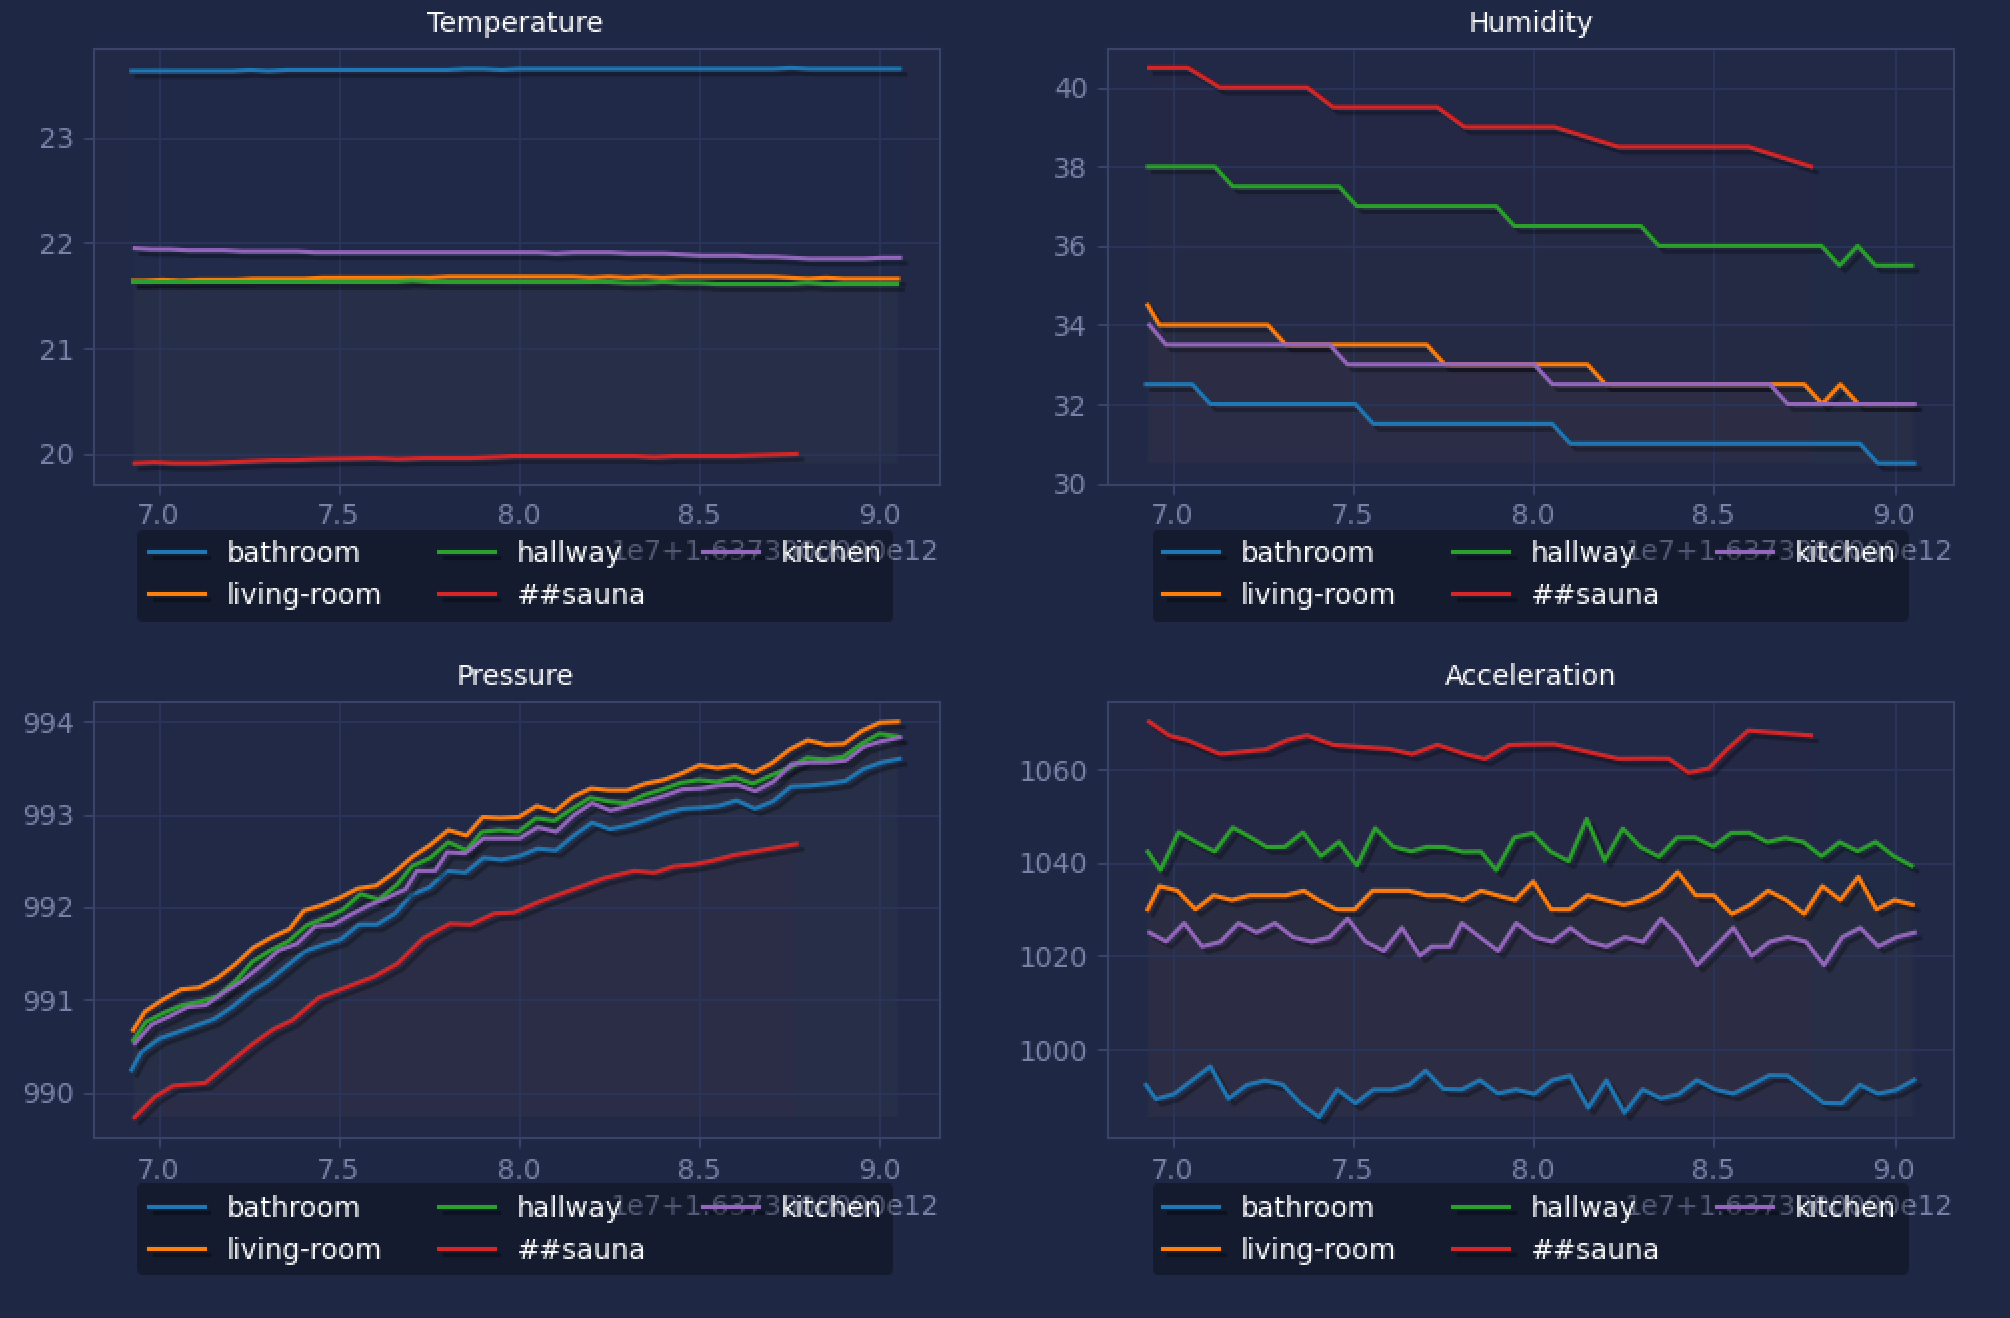
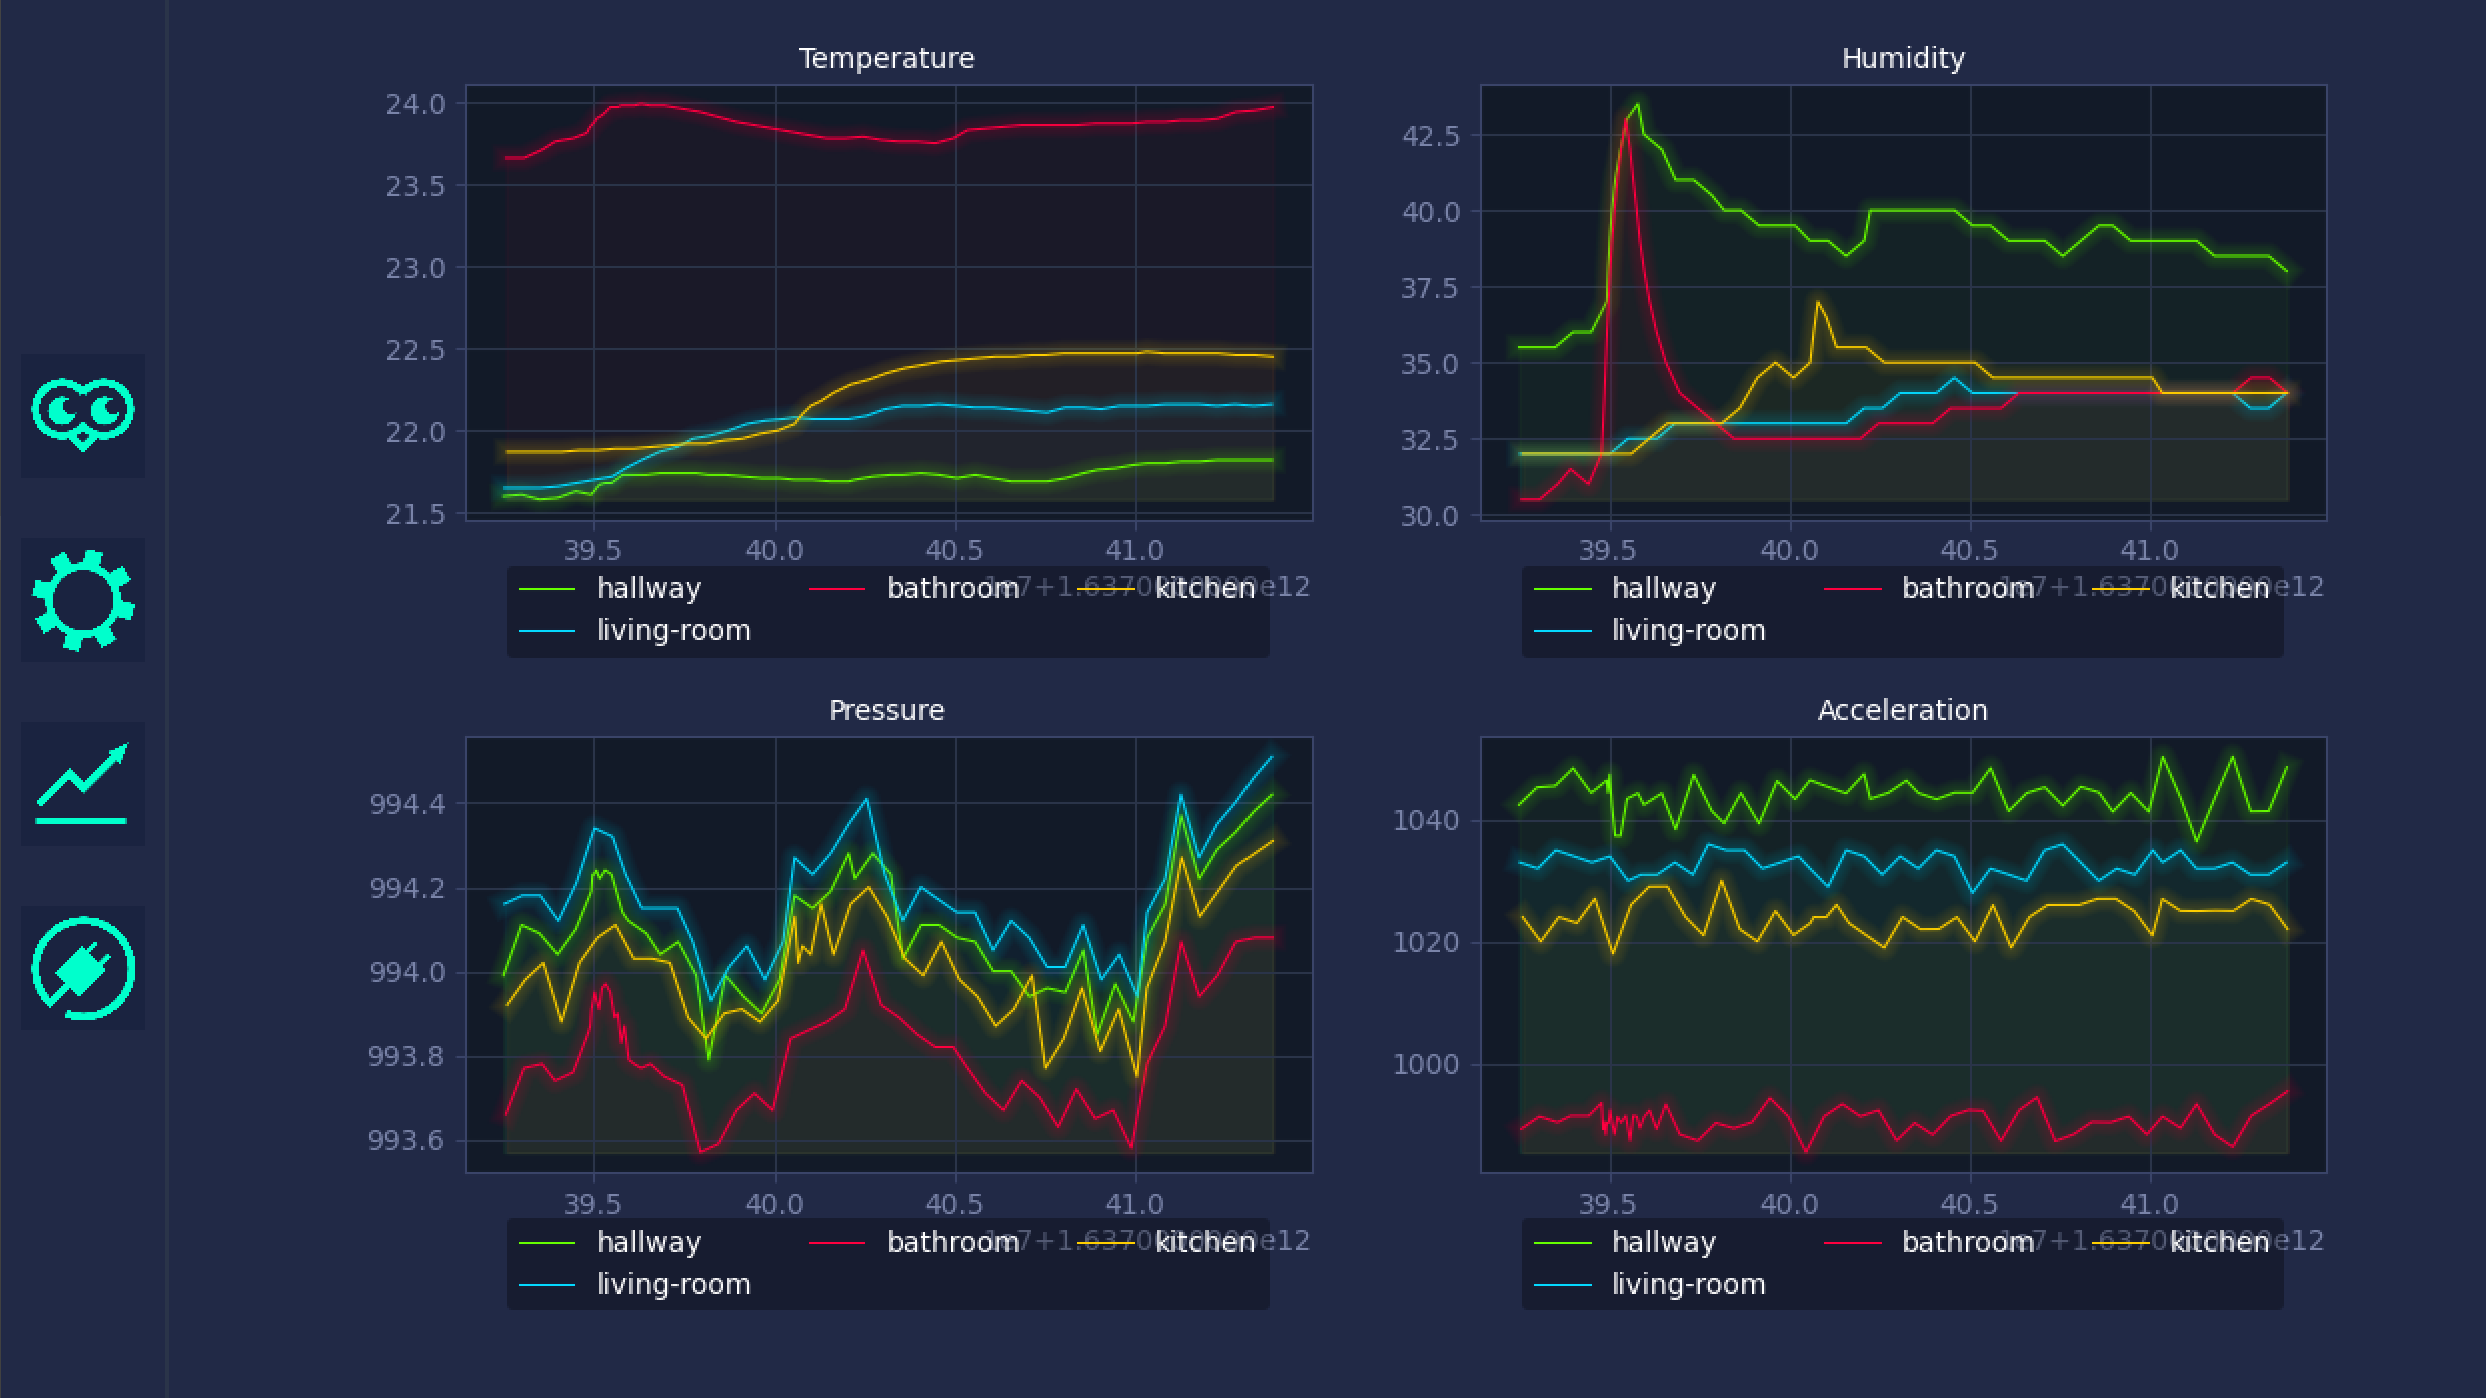
UI fine tuning

diff --git a/project/src/ui/dashboardpage.py b/project/src/ui/dashboardpage.py
@@ -31,9 +31,9 @@ class DashboardPage(Frame):
 
             for title, plot in data['plots'].items():
                 color = next(color_gen, None)
-                ax.plot(plot[0], plot[1], marker='', markersize=1.0, linewidth=0.5, path_effects=[patheffects.Normal()], label=title, color=color)
-                [ax.plot(plot[0], plot[1], marker='', alpha=0.025, linewidth=2+1.05*n, color=color) for n in range(8)]
-                ax.fill_between(x=plot[0], y1=plot[1], y2=smallest, alpha=0.025, color=color)
+                ax.plot(plot[0], plot[1], marker='', markersize=1.0, linewidth=0.75, path_effects=[patheffects.Normal()], label=title, color=color)
+                [ax.plot(plot[0], plot[1], marker='', alpha=0.025, linewidth=2+1.15*n, color=color) for n in range(8)]
+                ax.fill_between(x=plot[0], y1=plot[1], y2=smallest, alpha=0.035, color=color)
             ax.legend(loc='lower center', bbox_to_anchor=(0.5, -0.35), labelcolor='white', facecolor='black', framealpha=0.3, edgecolor='none', ncol=3)
         return ax
 

diff --git a/project/src/constants.py b/project/src/constants.py
@@ -17,6 +17,7 @@ NEON_GREEN='#66FF00'
 NEON_CRIMSON='#FF003F'
 NEON_BLUE='#04D9FF'
 NEON_ORANGE='#FFCF00'
+NEON_PURPLE='#BC13FE'
 
 COLORS = [NEON_GREEN, NEON_BLUE, NEON_CRIMSON, NEON_ORANGE, NEON_TEAL, NEON_YELLOW]
 
